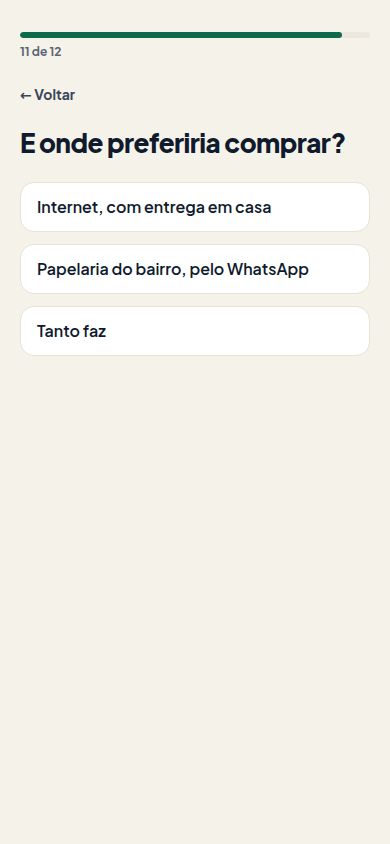
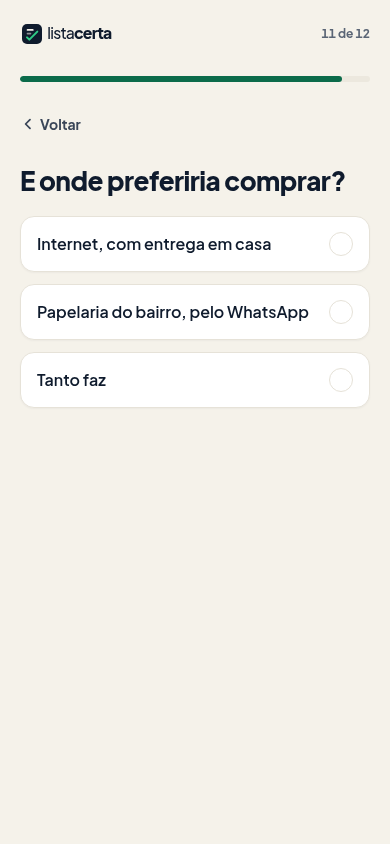
docs(pesquisa): evidências E2E regeneradas após o polimento visual
Recaptura das 25 telas (390x844) no preview do commit polido, mais
02b-cidade-selecionada.png (estado selecionado de opção única). Capturas
21/22 refeitas com o cookie de resultados limpo. Relatório E2E atualizado
com a nota de regeneração, a lição de locators do agent-browser e a
explicação do funil por last_step.

Claude-Session: https://claude.ai/code/session_01QajnUtFKyyrt1cJjXU6VLa

Changed region(s): [[0.0308, 0.0308, 0.9538, 0.4621]]

diff --git a/docs/superpowers/e2e/pesquisa-maes.md b/docs/superpowers/e2e/pesquisa-maes.md
@@ -25,6 +25,8 @@ Acesso direto a `/pesquisa/resultados` sem cookie → redireciona para `/pesquis
 ## Cenário 7 · Screenshots
 25 telas capturadas em `docs/superpowers/evidencias/pesquisa/`, todas 390×844: as 12 perguntas (incluindo a sub-pergunta "canal" e as variantes "usaria = não" e "pular"), boas-vindas, validação de lead (inválido/válido), tela final de compartilhamento, retomada após abandono, login de resultados (redirecionamento, senha errada, autenticado), seção de frases dos resultados e a página de privacidade. **Verde.**
 
+**Regeneração após o polimento visual (commit `4957814`):** o conjunto inteiro foi recapturado no preview do commit polido (wordmark no cabeçalho, "N de 12", cartões de opção com check, barra de ação fixa "Continuar"/"Pular", formulário de lead rotulado, cartão de sucesso Tinta + Verde Certo) e ganhou `02b-cidade-selecionada.png` (estado selecionado de uma opção única, antes do avanço automático). No mesmo passe os cenários 2, 3 e 4 foram reexecutados de ponta a ponta (retomada na tela 7 após reload, "Não" pulando a sub-pergunta, "Pular" + "Agora não" chegando ao sucesso sem lead) e o cenário 6 repetido com o cookie limpo (`agent-browser cookies clear`) — a primeira tentativa das capturas 21/22 tinha saído autenticada porque o cookie `pesquisa_auth` do login anterior ainda valia; capturas refeitas. Lição de locator: `find role button --name` do agent-browser trata o nome como regex (nomes com `(`, `$` ou `,` falham) e `find label` não casa `aria-label`; os seletores CSS estáveis usados foram `[role=radiogroup] > button:nth-child(N)`, `[role=group] > label:nth-child(N) input`, `#pesquisa-nome`, `#pesquisa-whatsapp`, `#senha`. O funil da página de resultados mostra 0 nas etapas 0-11 e 5 na etapa 12 porque, por spec (seção 8), ele conta sessões por `last_step` — todas as sessões de teste terminaram na etapa 12.
+
 ## CI (GitHub Actions, commit `a965b06`)
 `verify` (typecheck, lint, `pnpm test` — 2578 testes, `pnpm build`) e `db` (`supabase db reset` + `pnpm test:db` contra Postgres real) verdes. Um teste de outra fatia (`tests/extraction/pipeline.test.ts`, S08, sem relação com esta feature) tinha falhado por flakiness de tempo num commit anterior; confirmado que não é desta fatia (não toca nenhum arquivo do diff) e que passa isoladamente (2578/2578 localmente, e green no rerun do CI).
 
